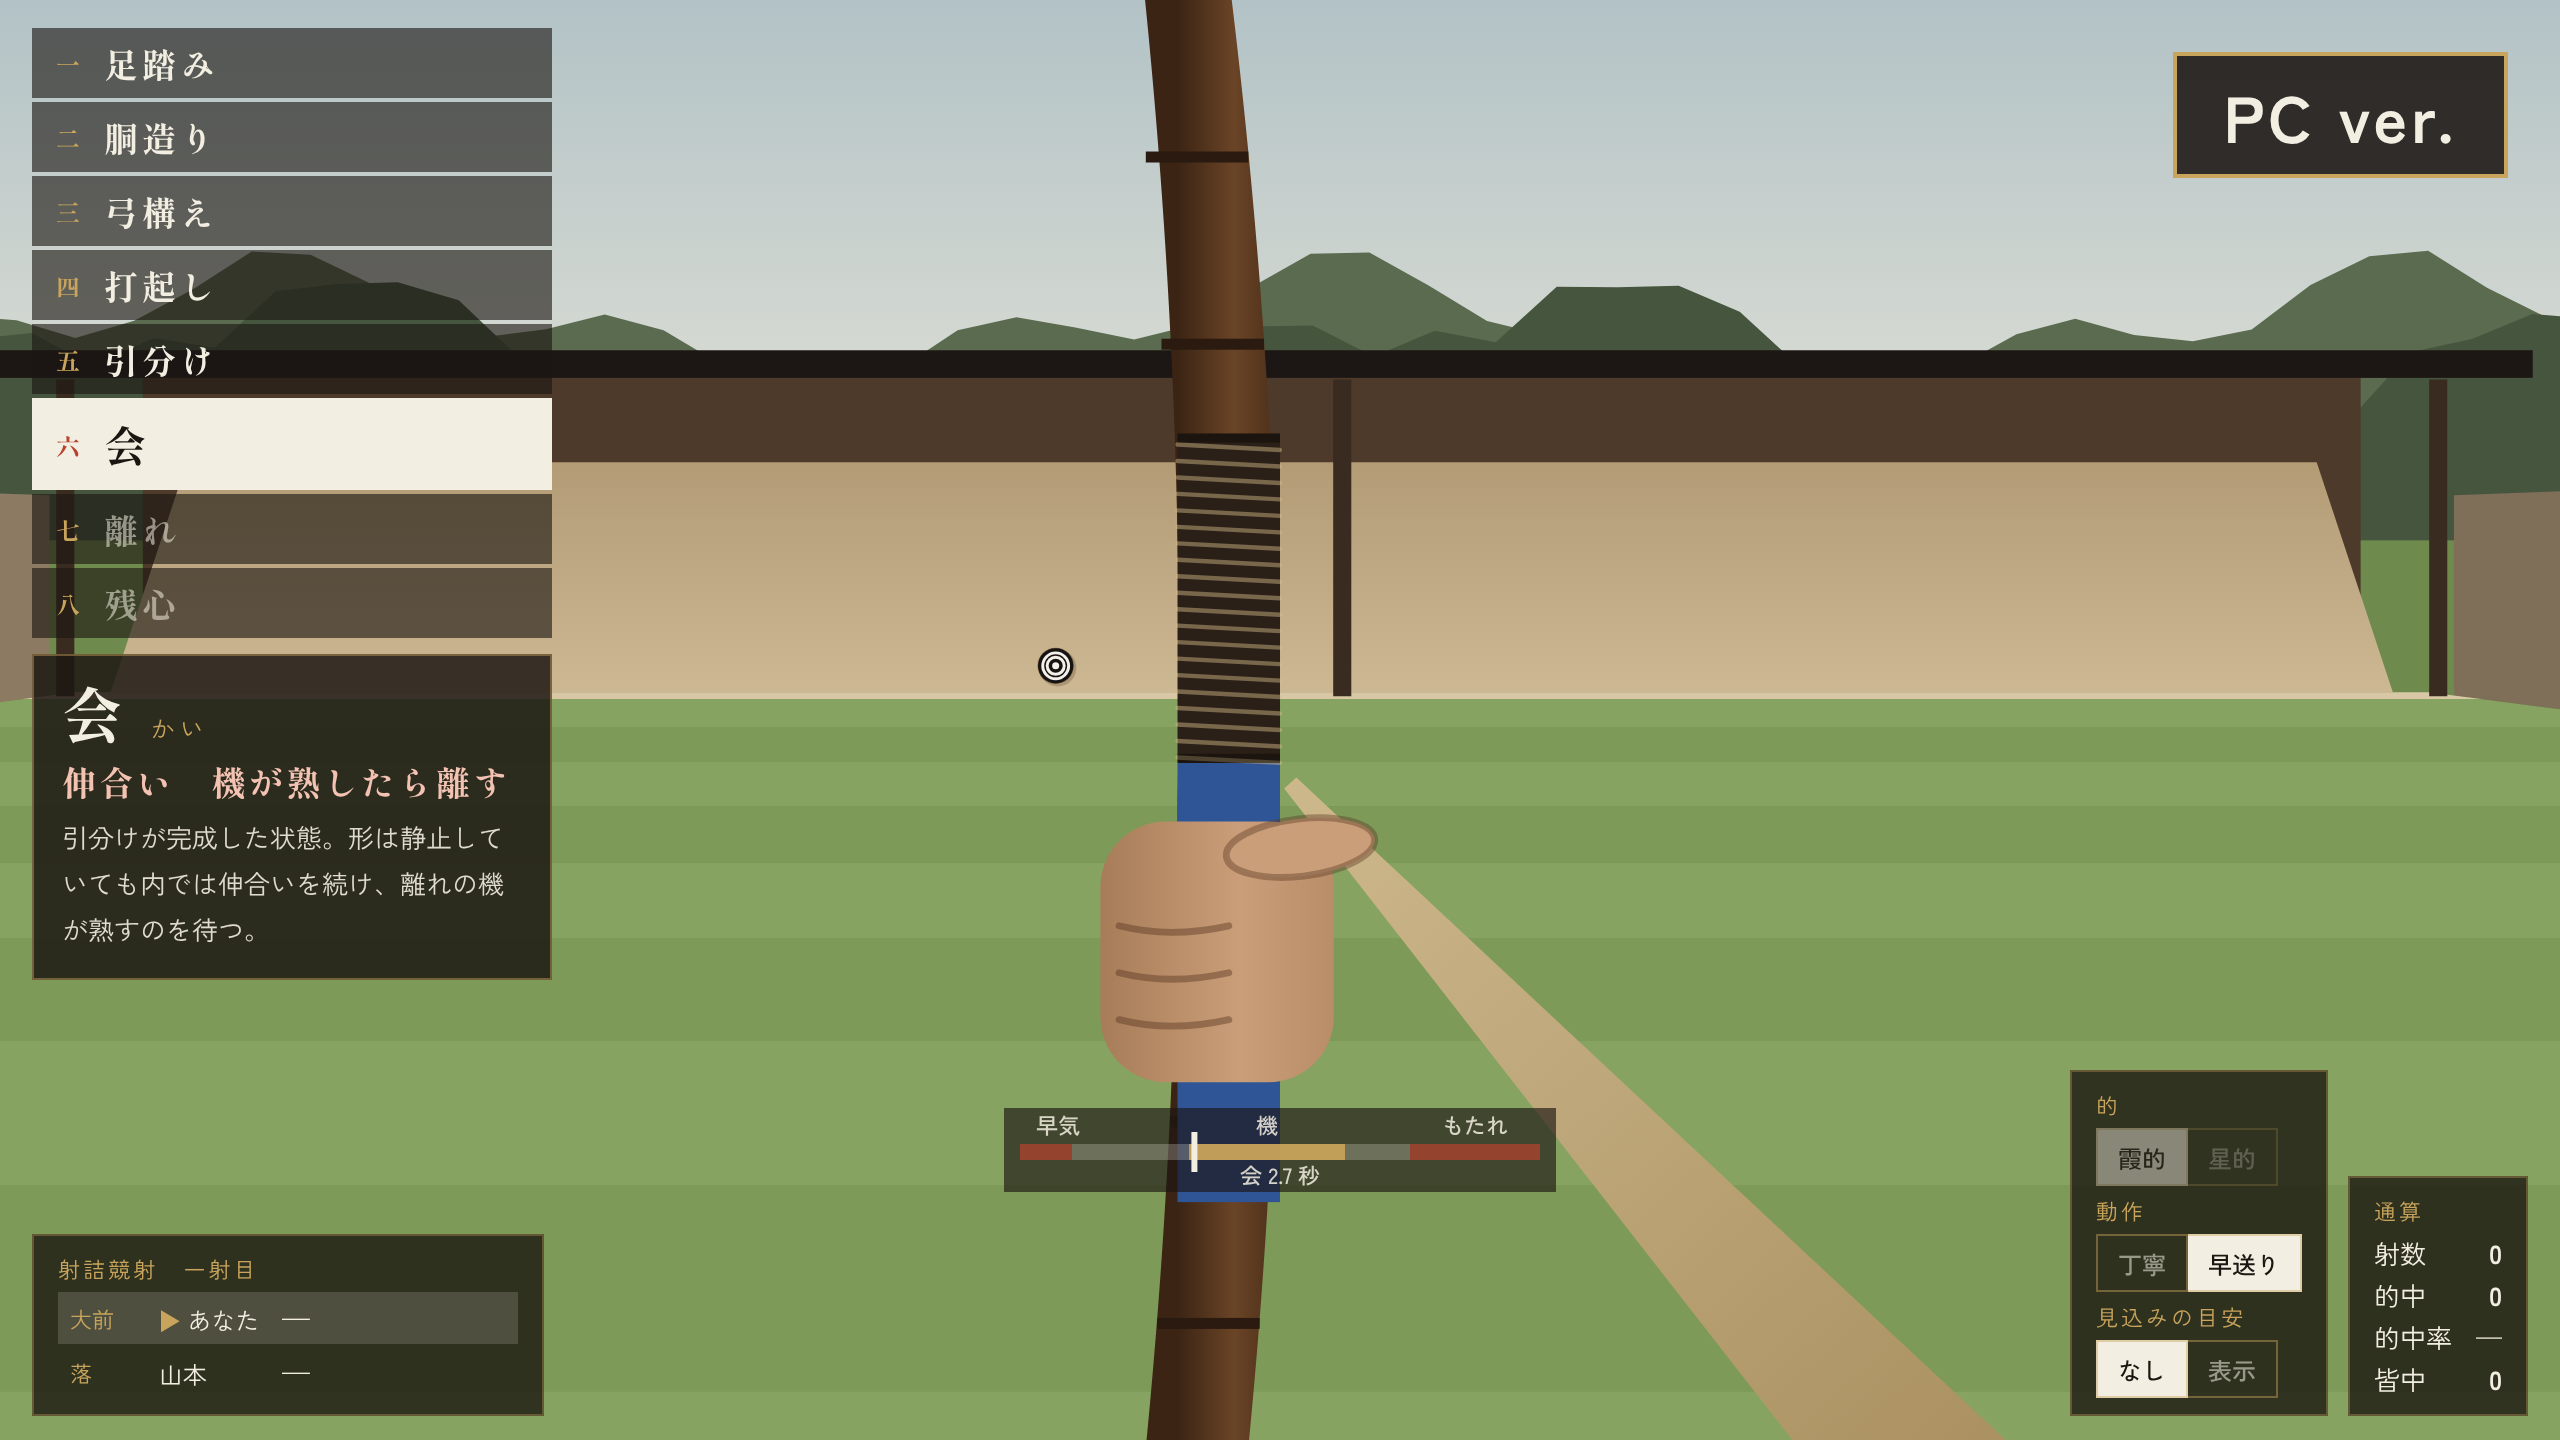
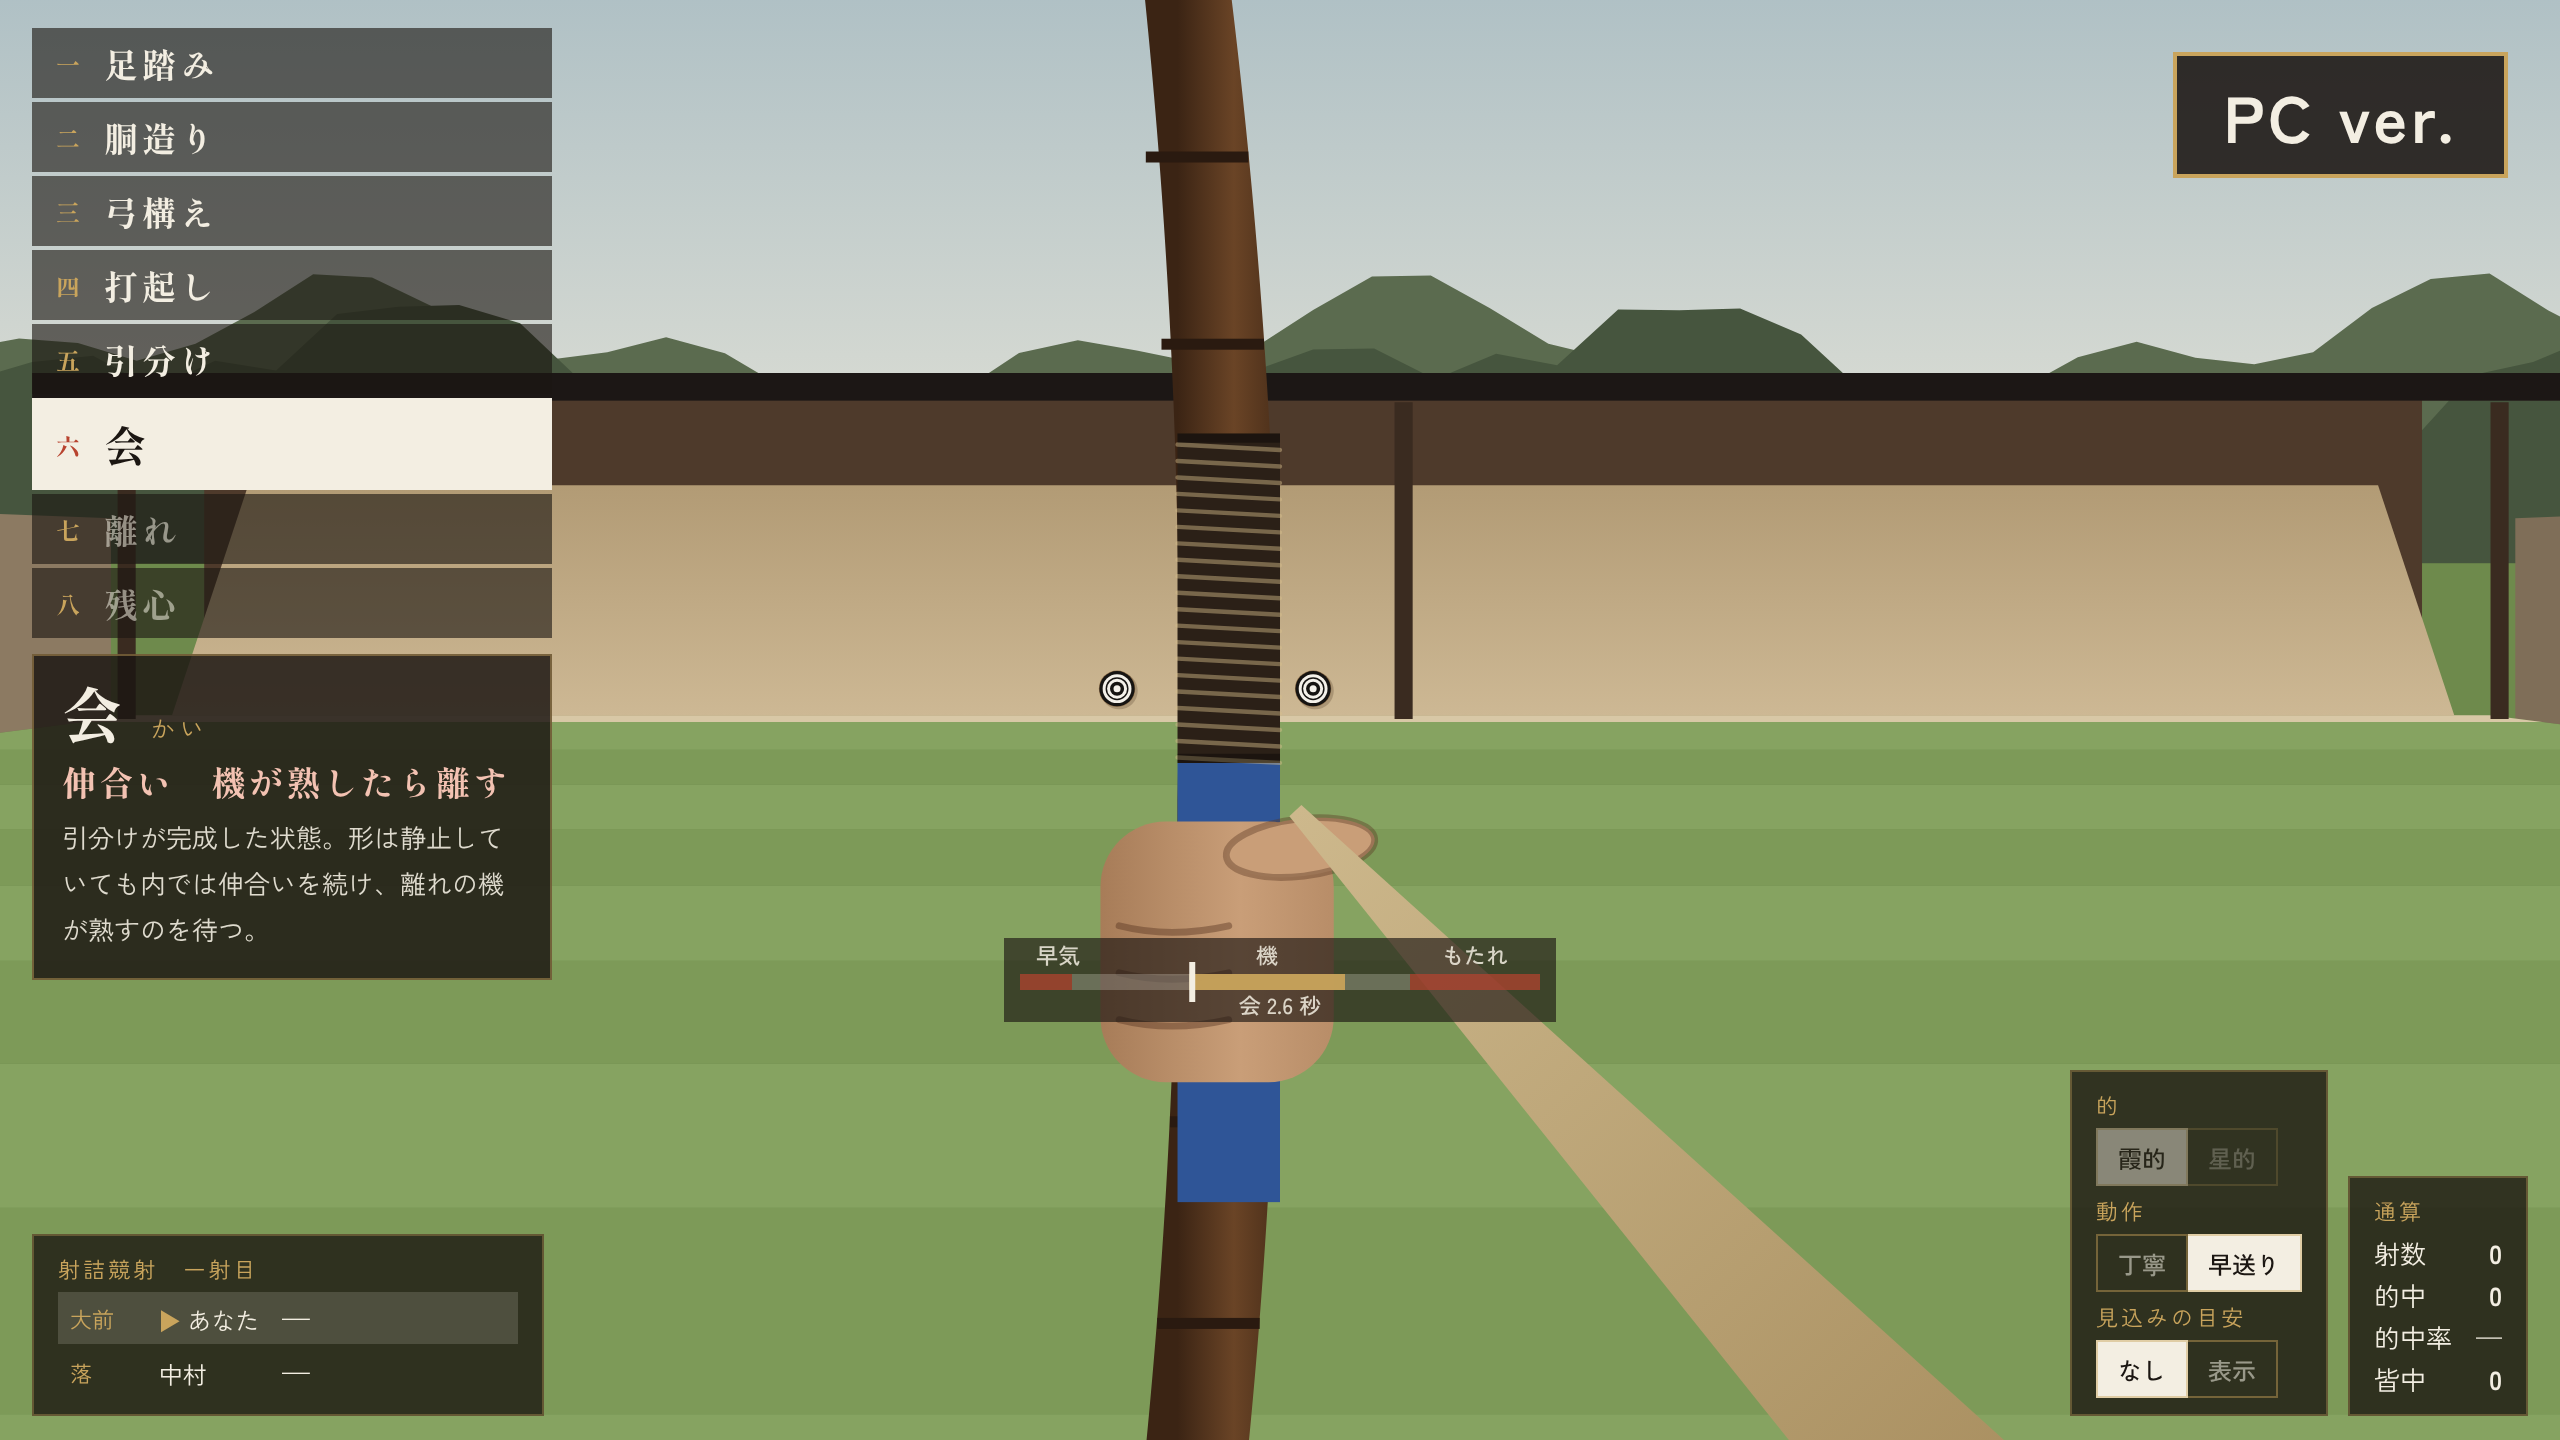
会で矢を弓手の親指に乗せる、スクリーンショットを更新

diff --git a/index.html b/index.html
@@ -1392,22 +1392,6 @@ body { background: var(--wood); color: var(--paper); font-family: var(--ui); ove
     const bw = F * 0.028 / 0.75;     // 2.8 cm wide bow at 75 cm
     const fistY = Ay + F * 0.045 + offY;
     ctx.save(); ctx.globalAlpha = alpha;
-    // arrow: lies on the right of the bow, resting on the fist, running back to the cheek
-    if (drawAmt > 0) {
-      const tipX = Ax + bw * 0.1, tipY = fistY - F * 0.006;
-      const nearX = lerp(Ax + bw * 3, W * 0.78, drawAmt), nearY = lerp(fistY + bw, H * 1.08, drawAmt);
-      const g = ctx.createLinearGradient(tipX, tipY, nearX, nearY);
-      g.addColorStop(0, '#cdb88c'); g.addColorStop(1, '#a88e5f');
-      ctx.fillStyle = g;
-      const n = Math.atan2(nearY - tipY, nearX - tipX) + Math.PI / 2;
-      const w0 = Math.max(1.5, F * 0.003), w1 = F * 0.03 * drawAmt + w0;
-      ctx.beginPath();
-      ctx.moveTo(tipX + Math.cos(n) * w0, tipY + Math.sin(n) * w0);
-      ctx.lineTo(nearX + Math.cos(n) * w1, nearY + Math.sin(n) * w1);
-      ctx.lineTo(nearX - Math.cos(n) * w1, nearY - Math.sin(n) * w1);
-      ctx.lineTo(tipX - Math.cos(n) * w0, tipY - Math.sin(n) * w0);
-      ctx.fill();
-    }
     // bow limb: slight curve, tapered toward the top, rattan bindings (籐)
     const topY = -H * 0.2 + offY, botY = H * 1.3;  // the lower limb always reaches below the screen
     const curve = y => { const t = (y - fistY) / (H * 1.2); return -Math.abs(t) * t * bw * 0.0 - t * t * bw * 2.2; };
@@ -1440,6 +1424,23 @@ body { background: var(--wood); color: var(--paper); font-family: var(--ui); ove
     ctx.fillStyle = '#c99e78';
     ctx.beginPath(); ctx.ellipse(Ax + bw * 0.2, fy + fh * 0.1, fw * 0.32, fh * 0.11, -0.12, 0, 7); ctx.fill();
     ctx.strokeStyle = 'rgba(90,55,35,.4)'; ctx.stroke();
+    const thumbTop = fy + fh * 0.1 - fh * 0.11;
+    // arrow: rests on the thumb on the right of the bow (drawn last so it lies on top of the thumb), running back to the cheek
+    if (drawAmt > 0) {
+      const tipX = Ax + bw * 0.15, tipY = thumbTop - Math.max(1.5, F * 0.003);
+      const nearX = lerp(Ax + bw * 3, W * 0.78, drawAmt), nearY = lerp(fistY + bw, H * 1.08, drawAmt);
+      const g = ctx.createLinearGradient(tipX, tipY, nearX, nearY);
+      g.addColorStop(0, '#cdb88c'); g.addColorStop(1, '#a88e5f');
+      ctx.fillStyle = g;
+      const n = Math.atan2(nearY - tipY, nearX - tipX) + Math.PI / 2;
+      const w0 = Math.max(1.5, F * 0.003), w1 = F * 0.03 * drawAmt + w0;
+      ctx.beginPath();
+      ctx.moveTo(tipX + Math.cos(n) * w0, tipY + Math.sin(n) * w0);
+      ctx.lineTo(nearX + Math.cos(n) * w1, nearY + Math.sin(n) * w1);
+      ctx.lineTo(nearX - Math.cos(n) * w1, nearY - Math.sin(n) * w1);
+      ctx.lineTo(tipX - Math.cos(n) * w0, tipY - Math.sin(n) * w0);
+      ctx.fill();
+    }
     ctx.restore();
   }
 
